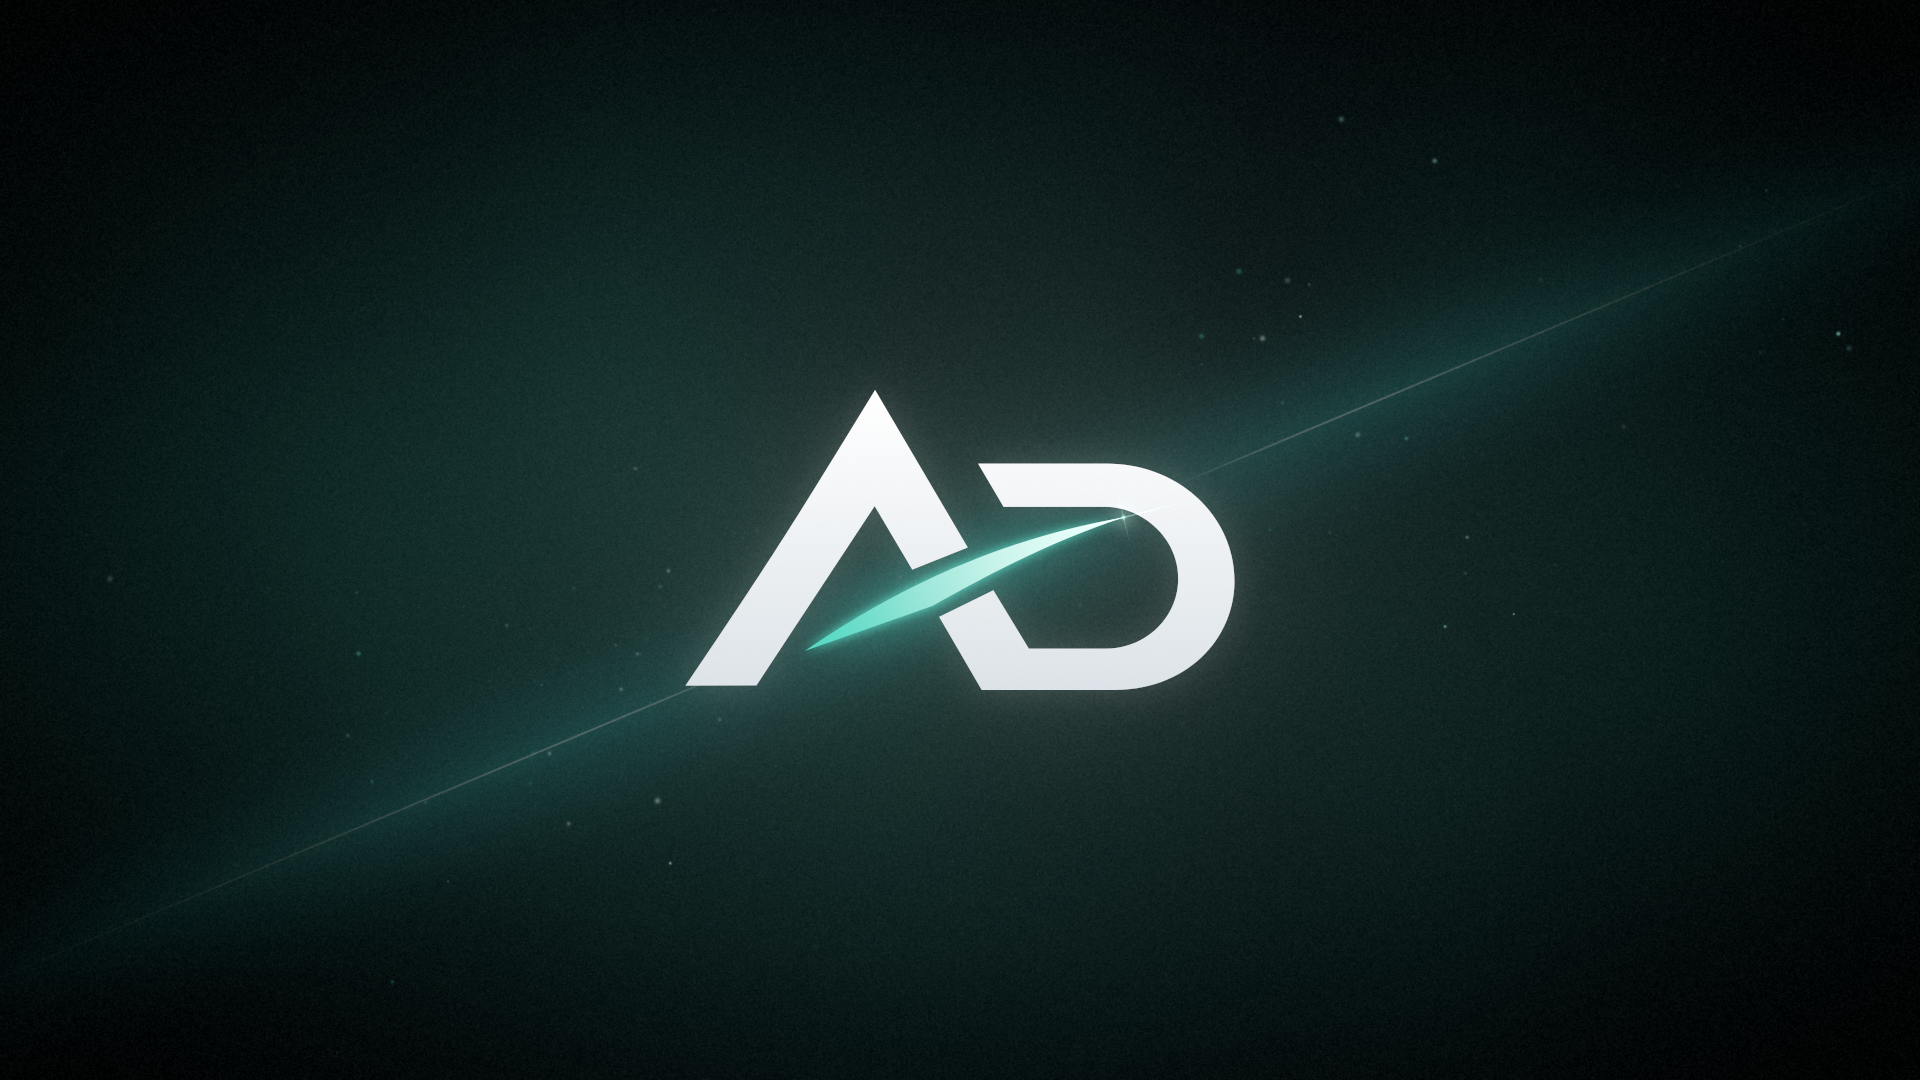
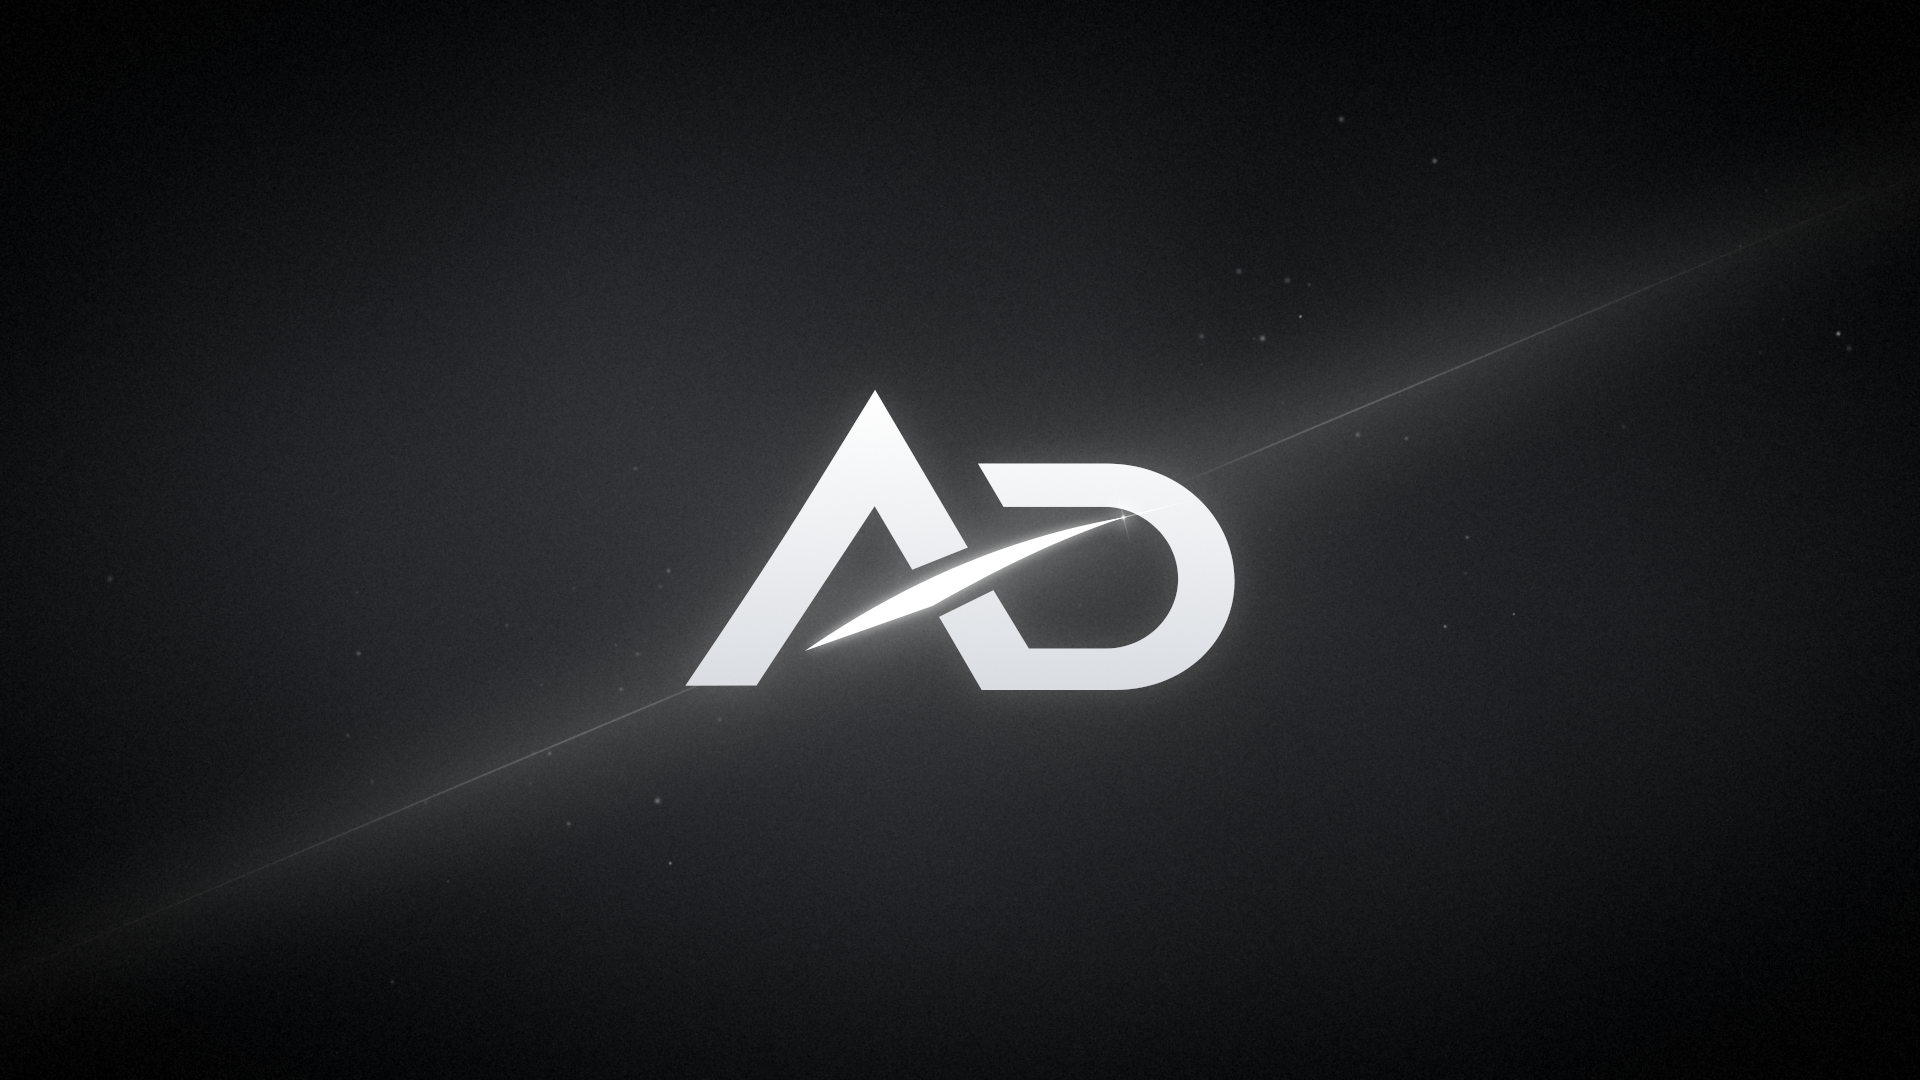
Make the Blade loading screen white
Blade is now monochrome: white beam, white glowing swoosh, silver dust and
a neutral dark backdrop without the teal tint. Aurora is unchanged.

Claude-Session: https://claude.ai/code/session_017nzjPnVhfaUz9KHAF2bvfW

Changed region(s): [[0.1562, 0.4583, 0.5938, 0.7944], [0.5938, 0.275, 0.8438, 0.4583]]

diff --git a/minecraft-loading-screen/source/designs.py b/minecraft-loading-screen/source/designs.py
@@ -9,27 +9,16 @@ TEAL_DEEP = fx.hex2lin("#0D9488")
 MINT = fx.hex2lin("#E9FFFB")
 BLUE = fx.hex2lin("#60A5FA")
 INDIGO = fx.hex2lin("#3B4FD8")
+SILVER = fx.hex2lin("#C9D3DD")
 WHITE = np.ones(3, np.float32)
-
-
-def _backdrop(c, spot_gain):
-    c.base("#0B0E12", "#030405")
-    c.spotlight(0.6 * TEAL + 0.4 * TEAL_DEEP, spot_gain, rx=700, ry=380, haze=0.45)
-    c.spotlight(WHITE, 0.010, rx=380, ry=240)
-
-
-def _logo(c):
-    c.glow(c.letters, 0.3 * TEAL + 0.7 * WHITE, [(16, 0.05), (60, 0.035)])
-    c.glow(c.swoosh, TEAL, [(5, 0.55), (22, 0.32), (80, 0.16)])
-    c.draw_logo()
-    c.glint(0.6 * MINT + 0.4 * TEAL, 0.7)
-    c.vignette(0.6)
 
 
 def aurora(w, h):
     """A silky ribbon of light (teal -> blue) that flows through the swoosh."""
     c = Canvas(w, h)
-    _backdrop(c, 0.020)
+    c.base("#0B0E12", "#030405")
+    c.spotlight(0.6 * TEAL + 0.4 * TEAL_DEEP, 0.020, rx=700, ry=380, haze=0.45)
+    c.spotlight(WHITE, 0.010, rx=380, ry=240)
     c.light_leak(TEAL_DEEP, 0.026, (140, 1020), 420)
     c.light_leak(INDIGO, 0.022, (1800, 70), 460)
     c.beam(0.7 * TEAL + 0.3 * BLUE, 0.030, width=120, length=780)
@@ -38,18 +27,28 @@ def aurora(w, h):
              seed=5, defocus_every=0, angle_offset=6, offset=(0, 30), fade=900)
     c.ribbon(gain=0.29, angle_offset=3, fade=880, twist_phase=0.35, twist_len=1450)
     c.particles(130, TEAL, MINT, 0.5, spread=100, length=800)
-    _logo(c)
+    c.glow(c.letters, 0.3 * TEAL + 0.7 * WHITE, [(16, 0.05), (60, 0.035)])
+    c.glow(c.swoosh, TEAL, [(5, 0.55), (22, 0.32), (80, 0.16)])
+    c.draw_logo()
+    c.glint(0.6 * MINT + 0.4 * TEAL, 0.7)
+    c.vignette(0.6)
     return c
 
 
 def blade(w, h):
-    """Minimal: one thin beam of light along the swoosh line and some star dust."""
+    """Minimal and monochrome: one thin white beam along the swoosh line and some star dust."""
     c = Canvas(w, h)
-    _backdrop(c, 0.024)
-    c.beam(0.75 * TEAL + 0.25 * BLUE, 0.042, width=64, length=760)
-    c.beam(TEAL, 0.026, width=16, length=600, core=0.22, core_color=MINT, core_w=0.85, clear=1.0)
-    c.particles(150, TEAL, MINT, 0.5, spread=110, length=820)
-    _logo(c)
+    c.base("#0B0C0E", "#030304")
+    c.spotlight(SILVER, 0.020, rx=700, ry=380, haze=0.45)
+    c.spotlight(WHITE, 0.010, rx=380, ry=240)
+    c.beam(WHITE, 0.028, width=64, length=760)
+    c.beam(WHITE, 0.0168, width=16, length=600, core=0.20, core_color=WHITE, core_w=0.85, clear=1.0)
+    c.particles(150, SILVER, WHITE, 0.4, spread=110, length=820)
+    c.glow(c.letters, WHITE, [(16, 0.05), (60, 0.035)])
+    c.glow(c.swoosh, WHITE, [(5, 0.40), (22, 0.22), (80, 0.11)])
+    c.draw_logo(bottom="#D9DDE2", sw_tail="#FFFFFF", sw_head="#FFFFFF", sw_tail_gain=1.0)
+    c.glint(WHITE, 0.6)
+    c.vignette(0.6)
     return c
 
 

diff --git a/minecraft-loading-screen/README.md b/minecraft-loading-screen/README.md
@@ -17,7 +17,7 @@
 
 ## Blade — минималистичный вариант
 
-Один тонкий луч по линии взмаха и немного звёздной пыли.
+Монохромный: один тонкий белый луч по линии взмаха, белый светящийся взмах и немного звёздной пыли.
 
 ![Blade](ad-loading-blade-1920x1080.png)
 
